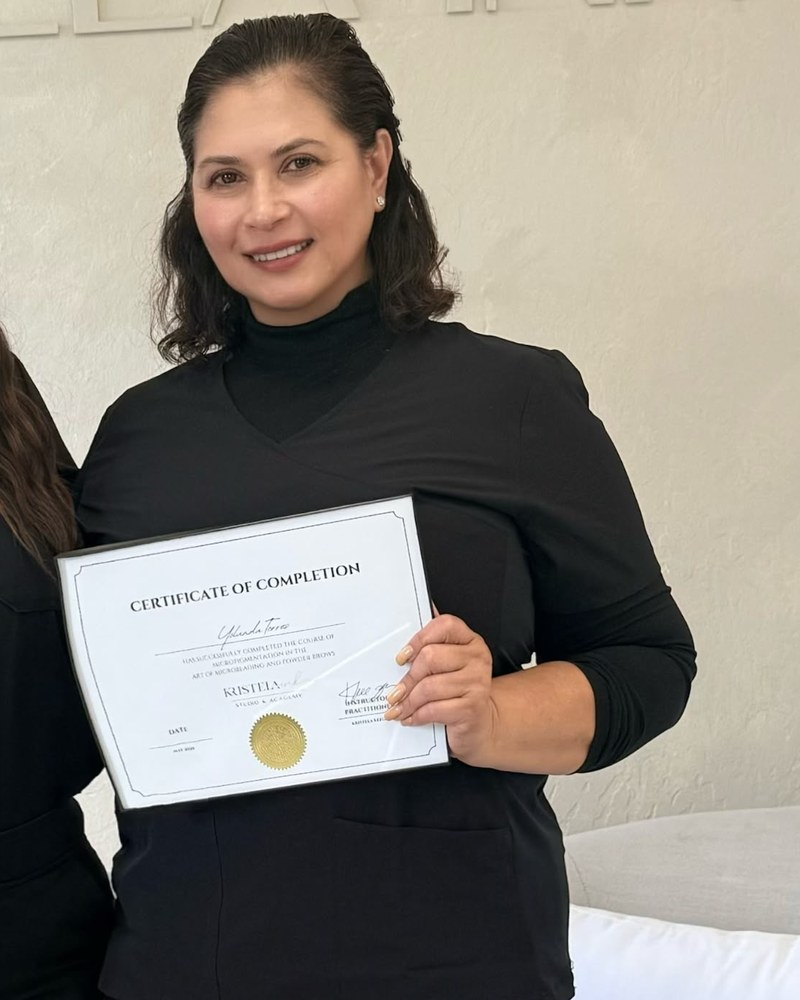
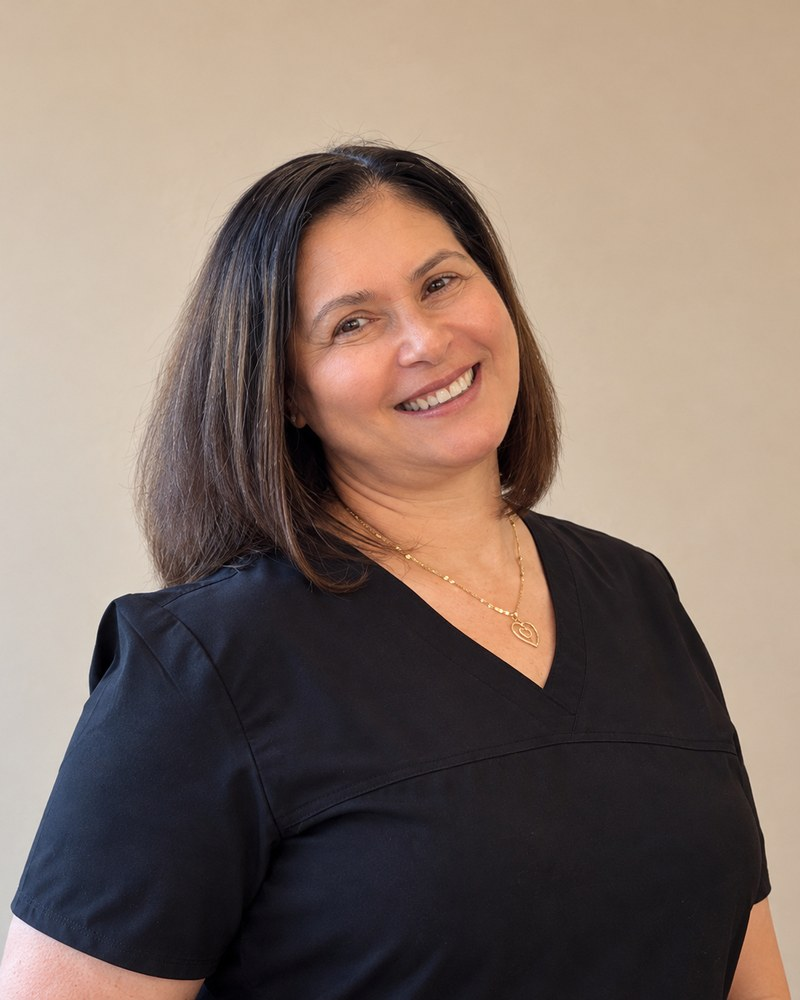
Use Yoly's original portrait
Claude-Session: https://claude.ai/code/session_01SWPF6YsFK3hf65ADpJNS1u

diff --git a/agendar/index.html b/agendar/index.html
@@ -32,7 +32,7 @@ window.SITE = {
 .stepper .bar{width:28px;height:1px;background:var(--linen)}
 .top{padding:28px 0 56px}
 .top-img{margin:22px auto 0;max-width:520px;aspect-ratio:16/9;border-radius:var(--radius);overflow:hidden}
-.top-img img{width:100%;height:100%;object-fit:cover;object-position:center 12%}
+.top-img img{width:100%;height:100%;object-fit:cover;object-position:center 28%}
 .top h1{font-size:40px;margin-top:12px}
 @media(min-width:768px){.top h1{font-size:56px}}
 .top .sub{max-width:600px;margin:16px auto 0;font-size:15px;line-height:1.85;color:var(--muted)}
